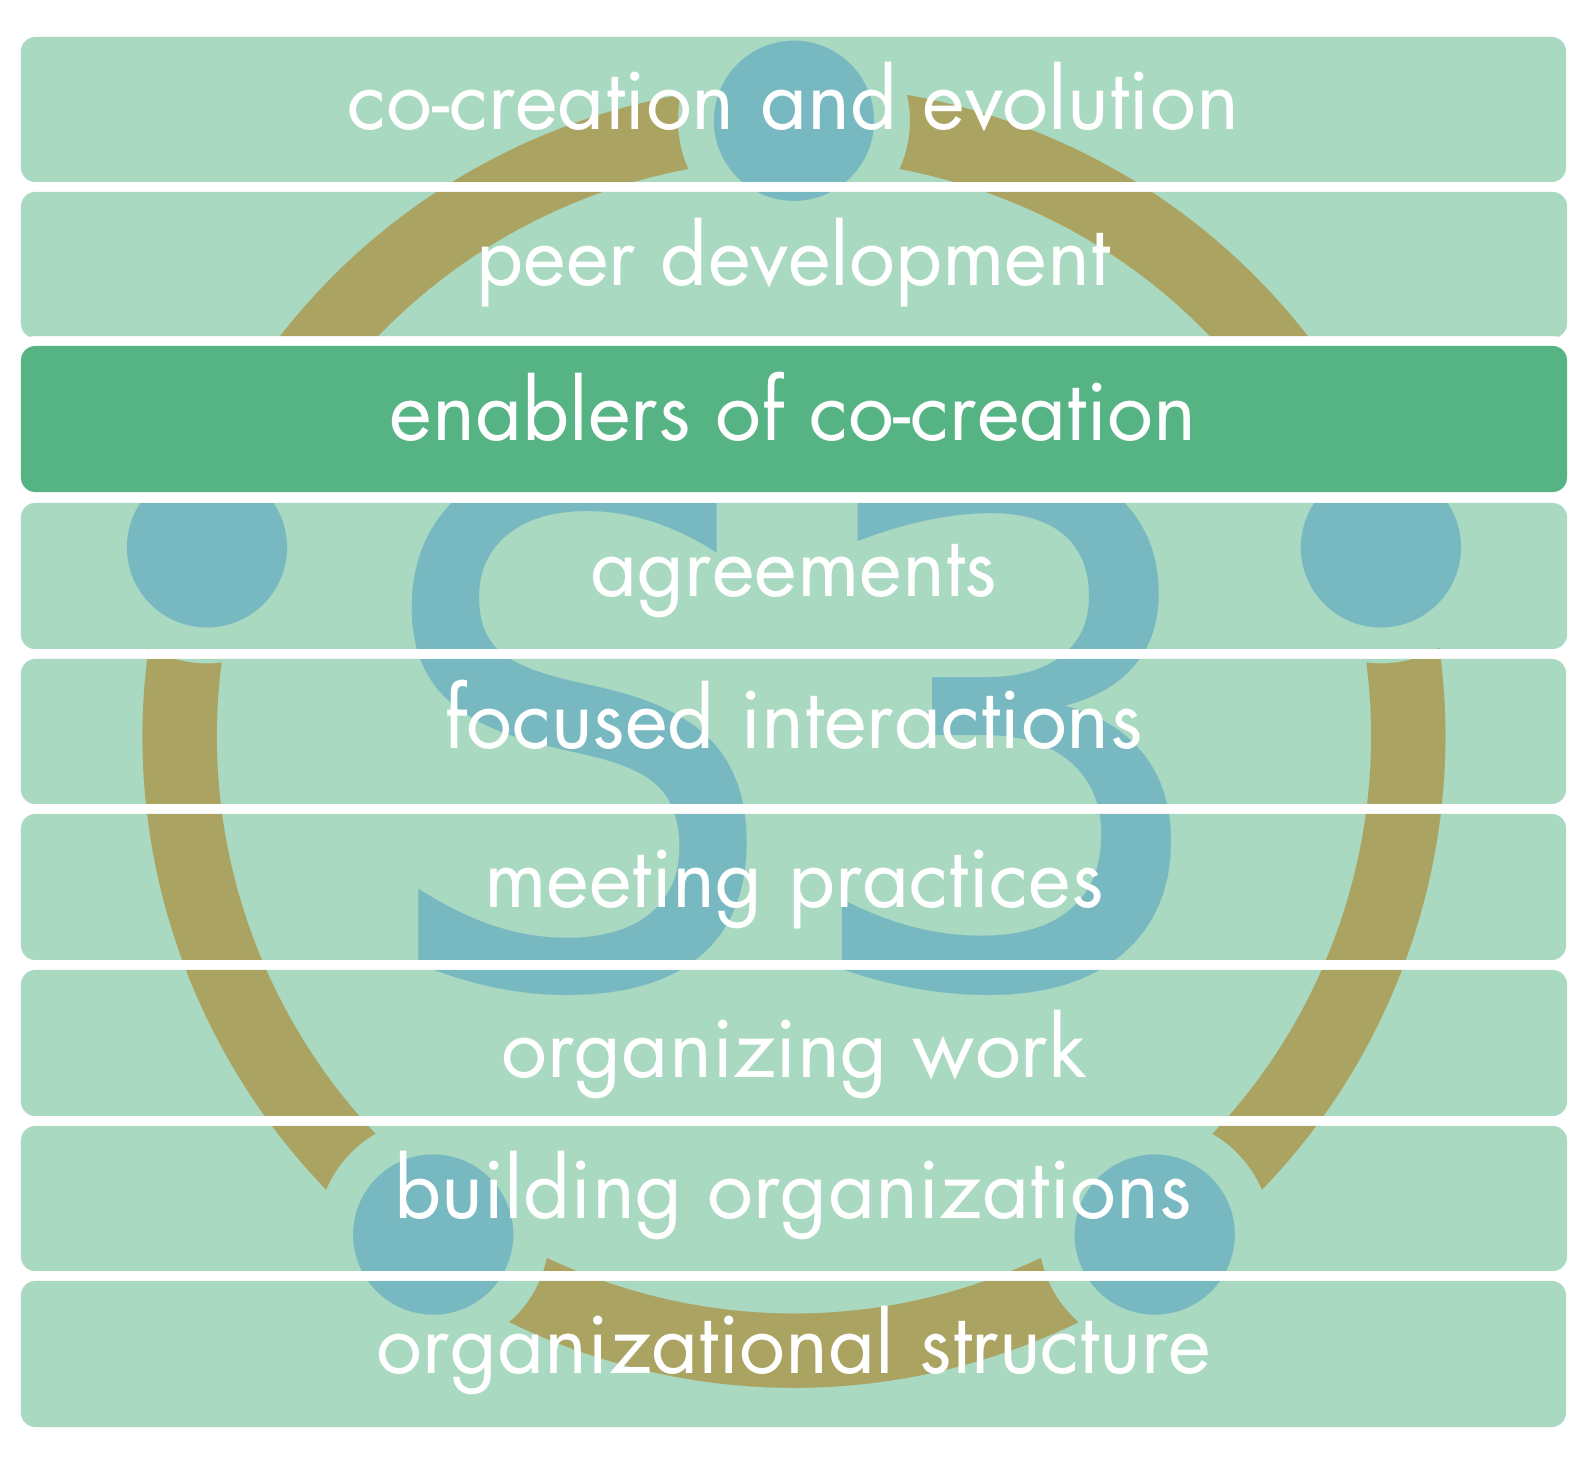
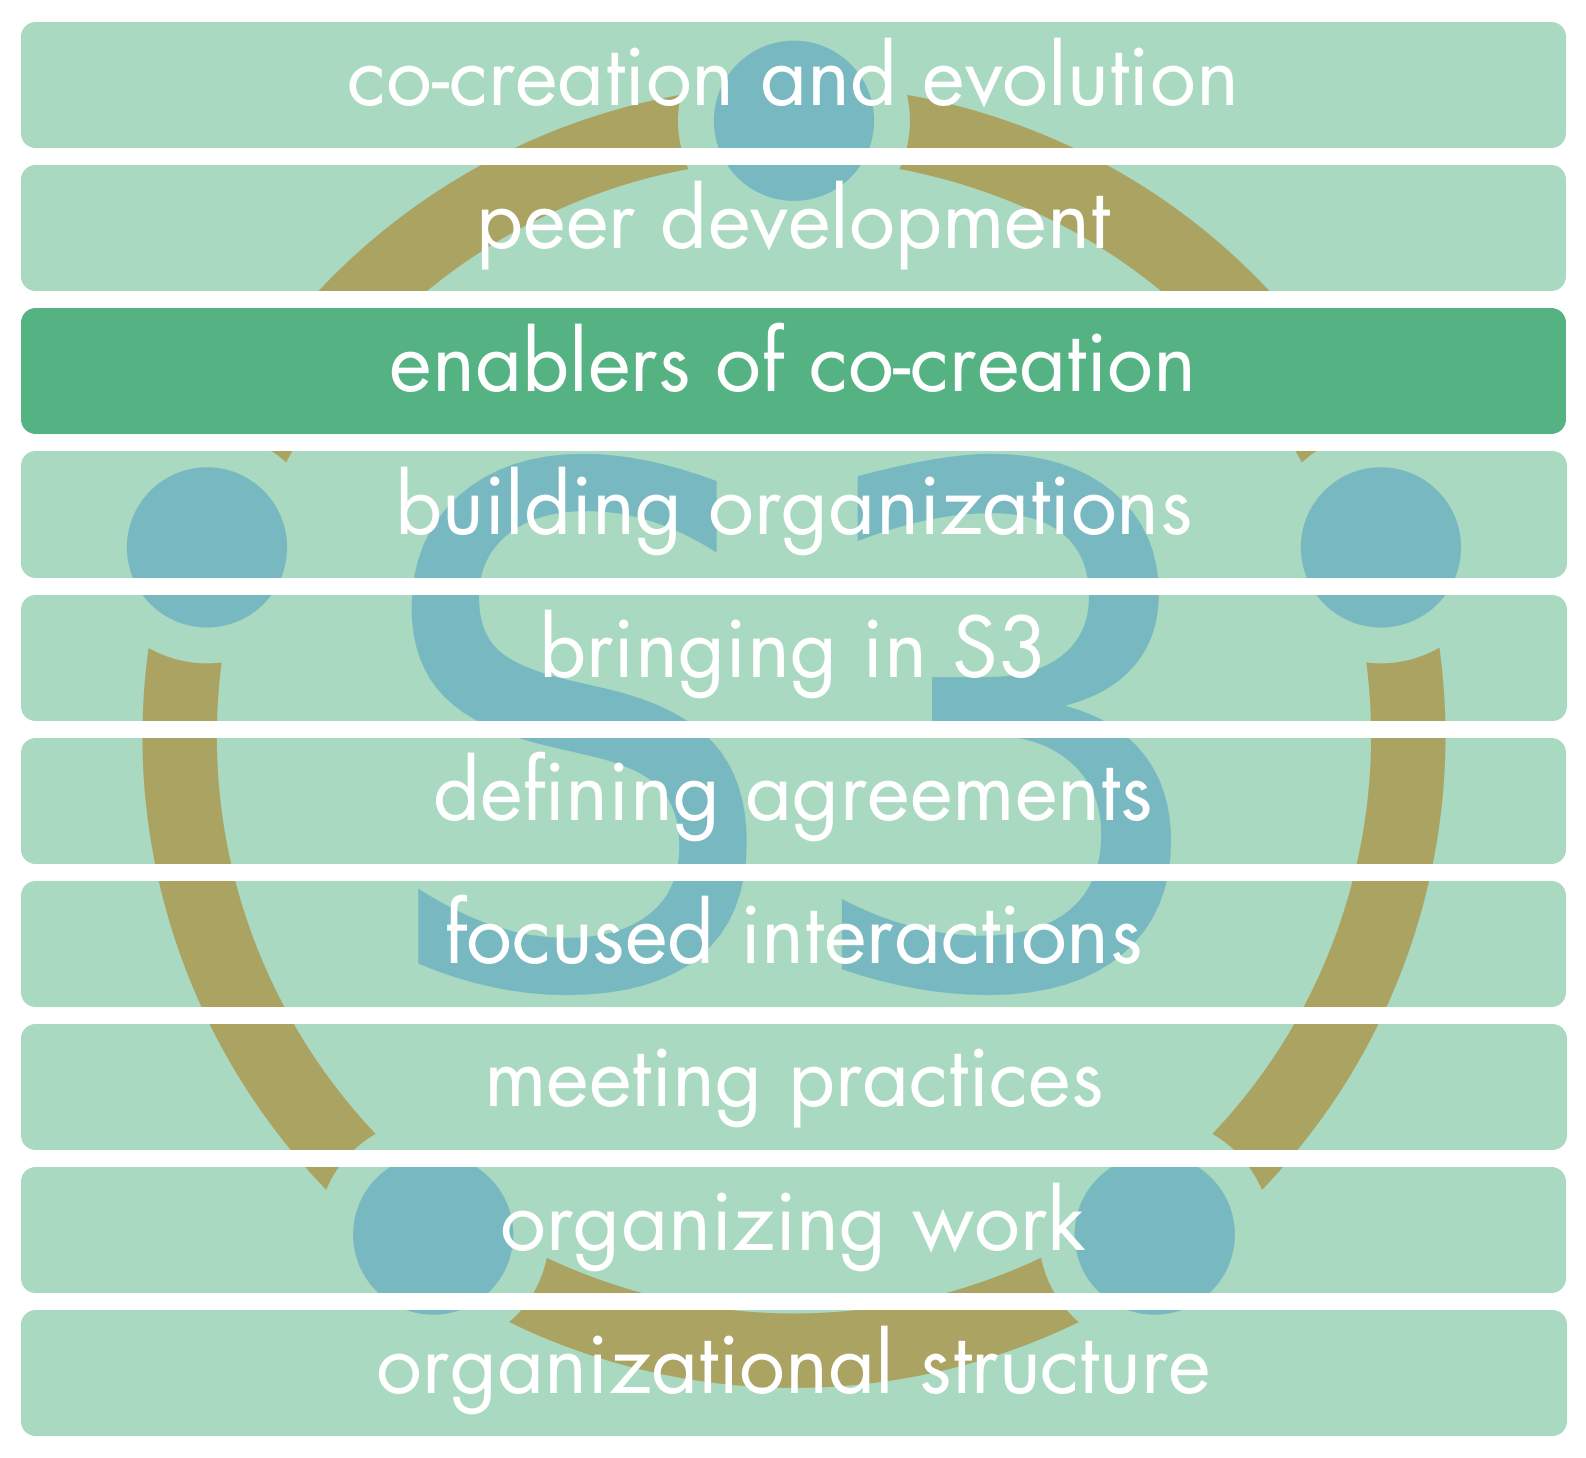
added pattern group: bringing in s3

Changed region(s): [[0.0, 0.0, 0.9887, 0.9877]]

diff --git a/src/bringing-in-s3/continuous-improvement-of-work-process.md b/src/bringing-in-s3/continuous-improvement-of-work-process.md
@@ -2,12 +2,12 @@
 
 ### To reveal drivers and establish a metrics-based pull-system for organizational change.
 
-* start with consent in one circle and go
+* introduce the principle of consent to evolve work process in one team
 * consider selecting a facilitator and agreeing on values
 * trigger continuous improvement (e.g through Kanban)
-* let them pull in patterns 
-* then expand the scope of the experiment
-* deliberately look out for impediments  
+* team pulls in patterns 
+* expand the scope of the experiment iteratively
+* intentionally look out for impediments  
 
 ---
 
@@ -17,7 +17,7 @@
 
 **Waste** _is anything not necessary for - or standing in the way of - effective response to a driver._
 
-* waste exists in many different forms and on different levels of abstraction (tasks, processes, organizational structure, mental models...)
+* waste exists in various forms and on different levels of abstraction (tasks, processes, organizational structure, mental models...)
 * establishing a process for ongoing elimination of waste enables natural evolution of an organization towards greater effectiveness
 * adaptation to changing context is built into the process
 

diff --git a/src/bringing-in-s3/adapt-patterns-to-context.md b/src/bringing-in-s3/adapt-patterns-to-context.md
@@ -5,7 +5,7 @@
 * adapting and evolving s3 patterns is a hypothesis-driven process
 * **shared understanding and buy-in is essential**: ensure everyone affected by adaptation is present or represented when creating and evolving the adaptation
 * ensure you understand *why* you need to adapt the pattern
-* use S3 principles as guide for adaptation
+* use S3 principles as a guide for adaptation
 * ensure experiments with adaptation run long enough to learn about benefits and potential pitfalls
 * consider feeding back valuable adaptations to the S3 community
 

diff --git a/src/bringing-in-s3/pull-system-for-organizational-change.md b/src/bringing-in-s3/pull-system-for-organizational-change.md
@@ -1,0 +1,11 @@
+## Pull-System For Organizational Change
+
+Change things when there is value in doing so.
+
+Create an environment that invites and enables members of the organization to drive change:
+
+* bring in patterns that solve current and important problems
+  * don't break what's already working!
+  * meet everyone where they are…
+  * …and let them choose their own pace
+* consider making all change voluntary!

diff --git a/src/bringing-in-s3/open-s3-adoption.md b/src/bringing-in-s3/open-s3-adoption.md
@@ -1,0 +1,8 @@
+## Open S3 Adoption
+
+* indentify the driver for pulling in S3 patterns
+* schedule regular of open space events:
+    * invite all members to create and run experiments
+    * define constraints for experiments: e.g. S3 principles
+    * review and learn from experimentation in the next open space
+    * repeat

diff --git a/src/bringing-in-s3/pull-in-S3.md b/src/bringing-in-s3/pull-in-S3.md
@@ -1,4 +1,6 @@
-## Pull in S3
+## Invite Change
+
+A way for indivduals to initiate and facilitate change.
 
 * be the change you want to see
 * use and adapt S3 patterns to address drivers when it's helpful to do so
